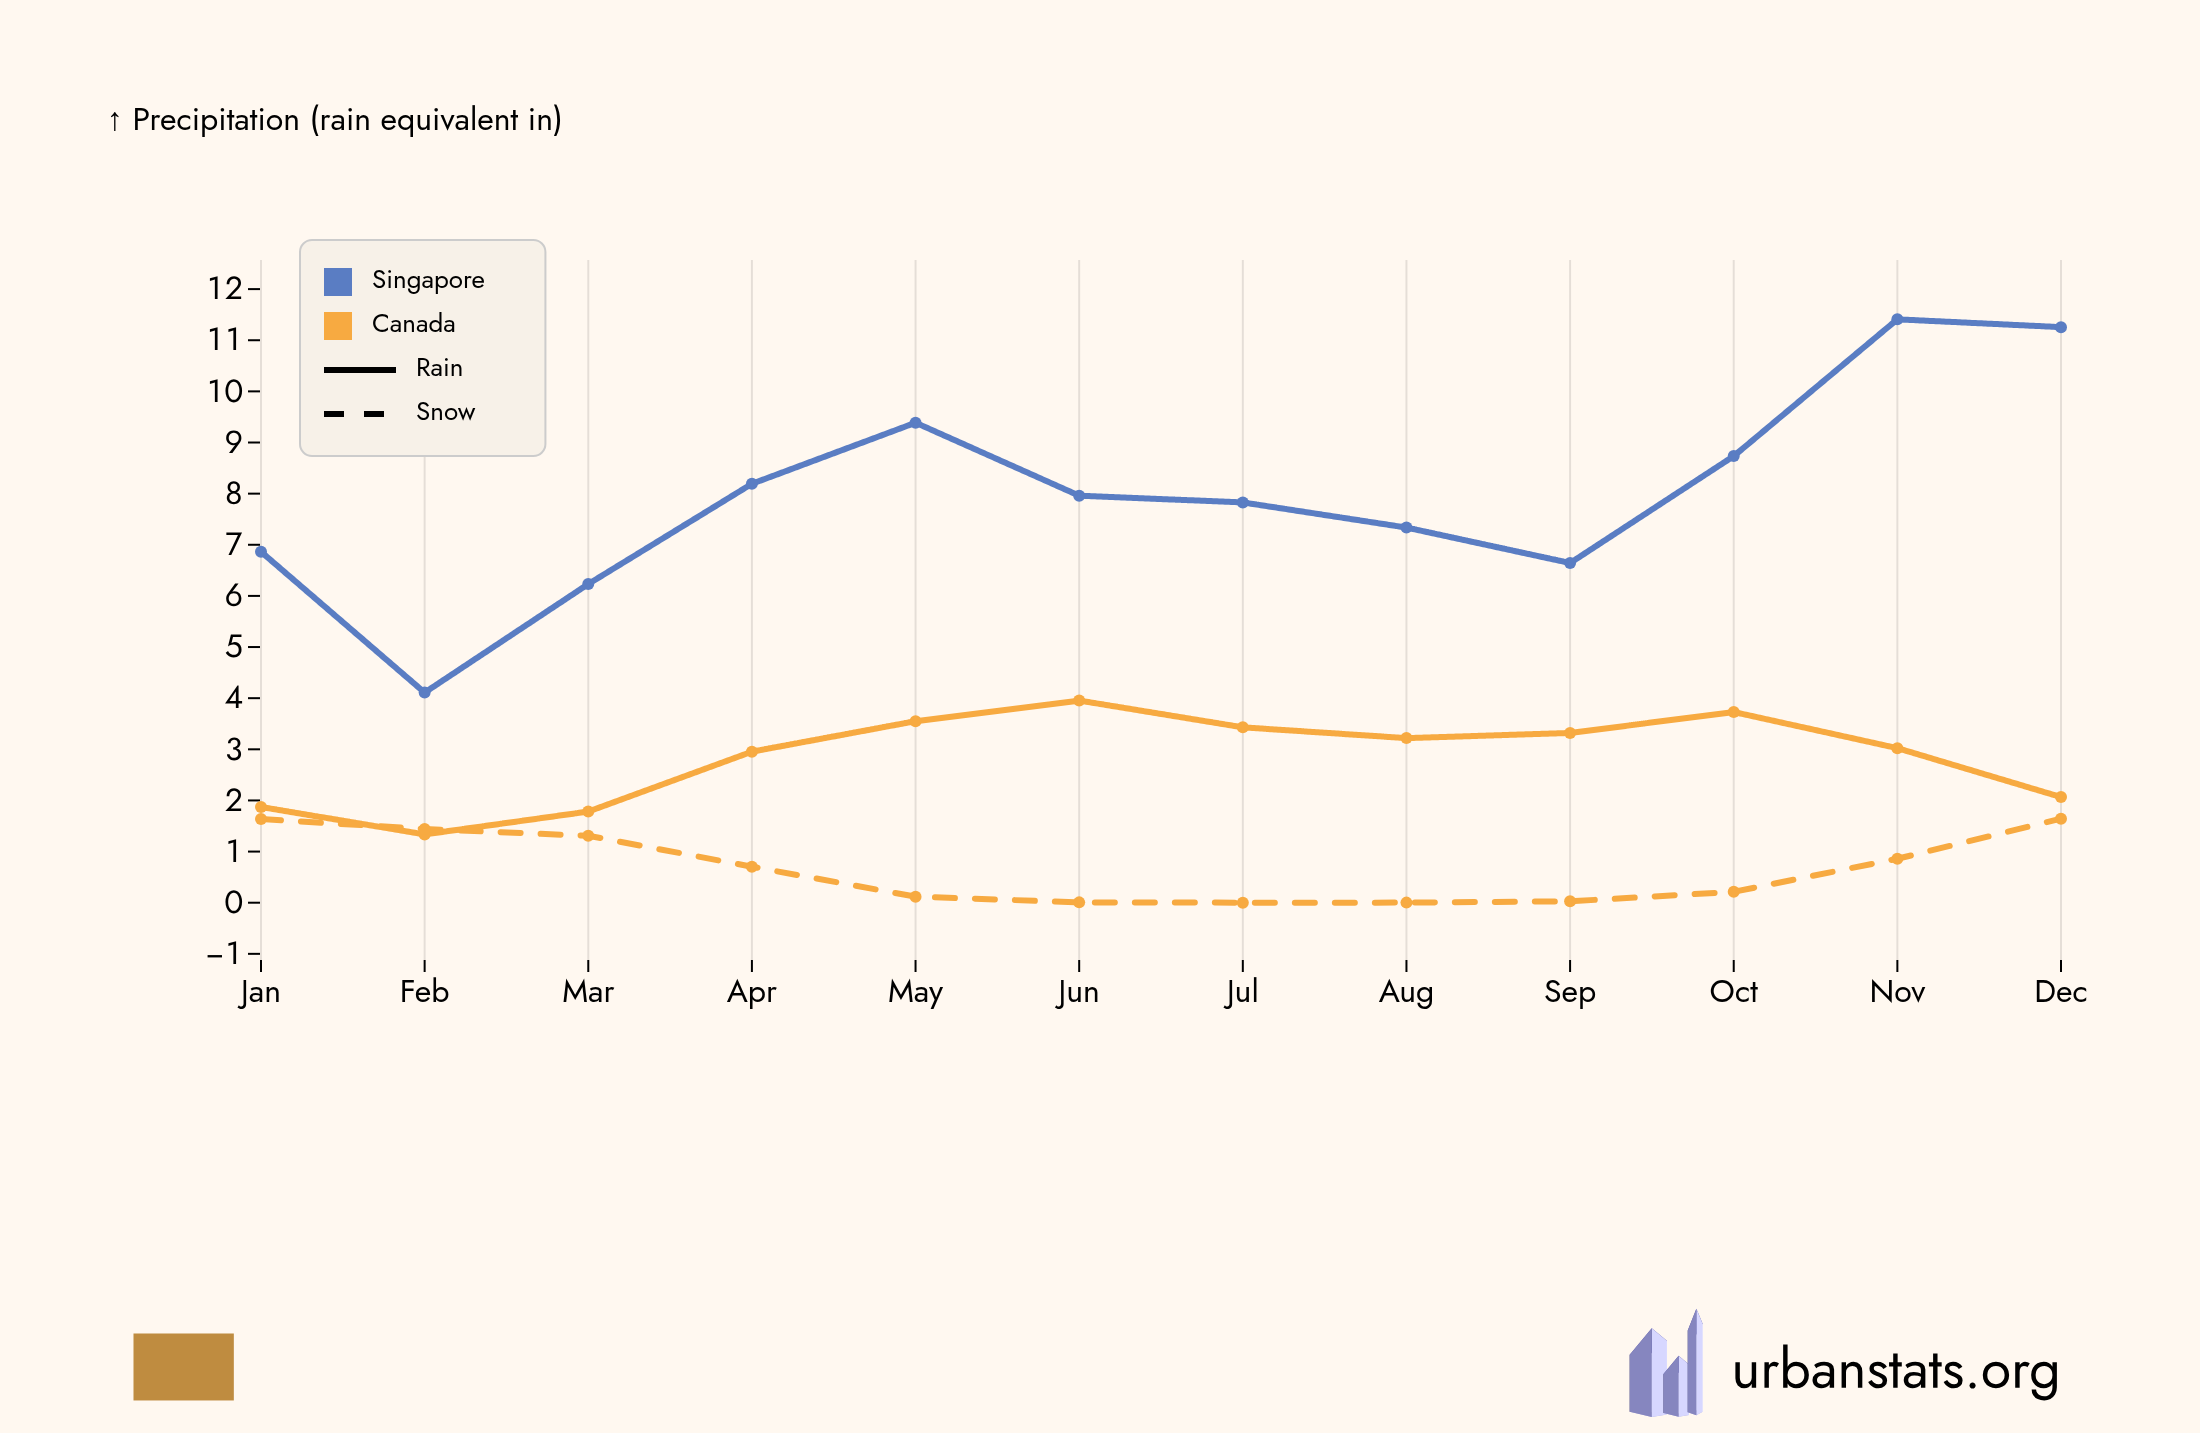
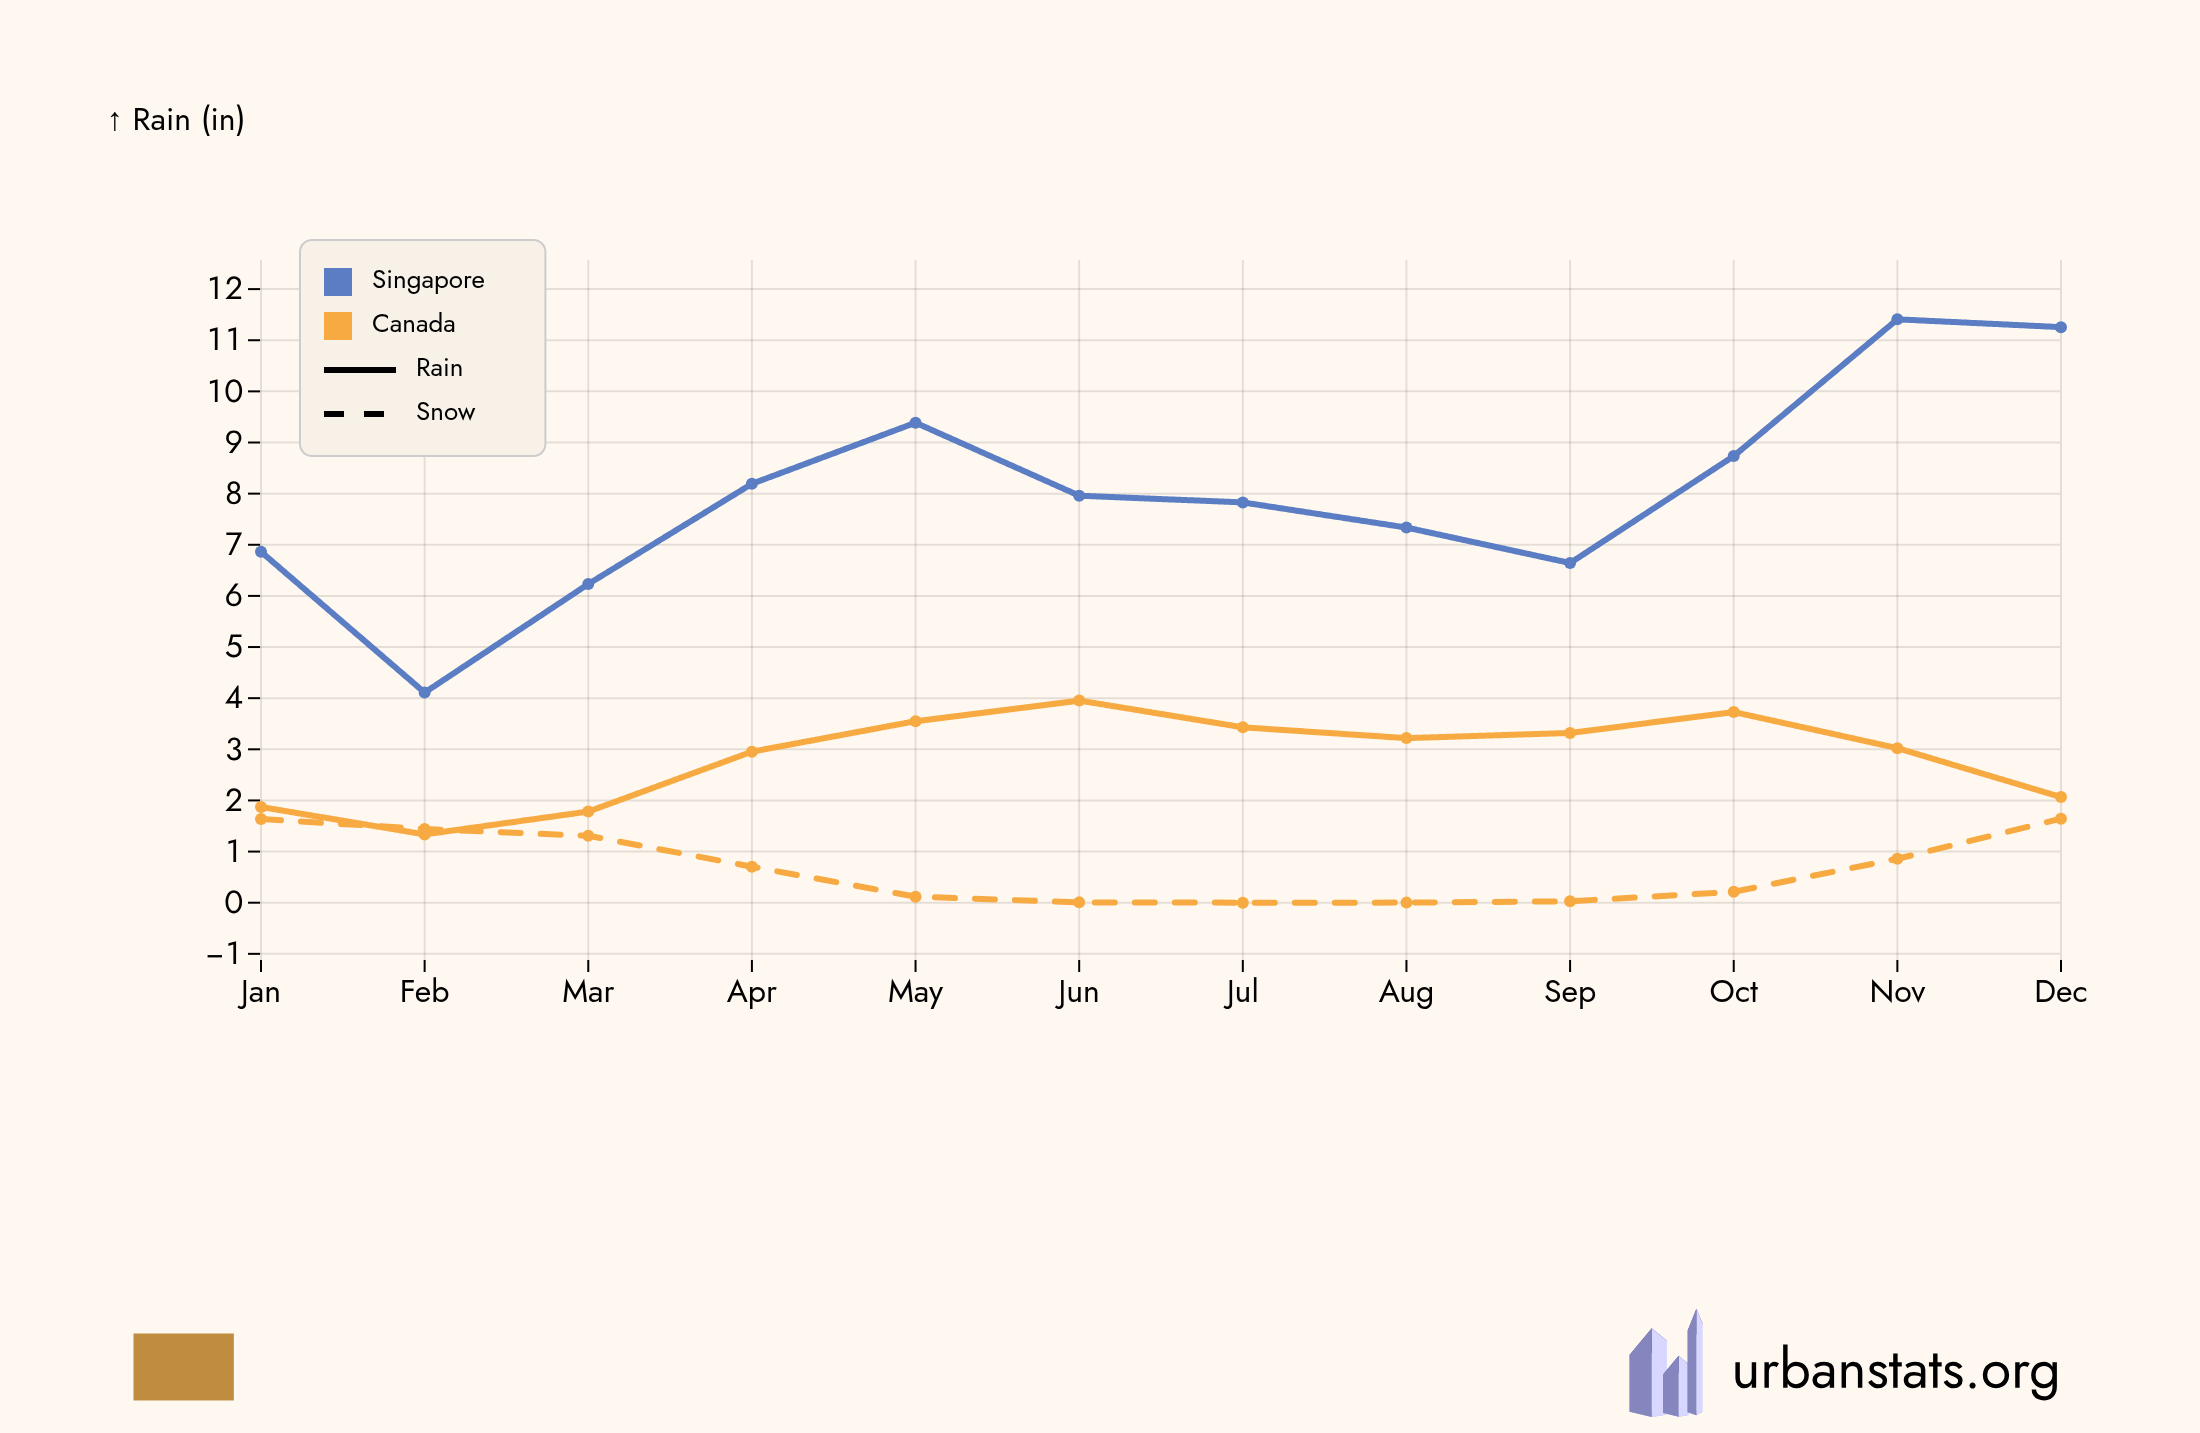
fix tests

Changed region(s): [[0.0618, 0.0614, 0.2473, 0.0921]]

diff --git a/react/src/components/plots.tsx b/react/src/components/plots.tsx
@@ -219,8 +219,33 @@ const plotPairAxisLabel: Partial<Record<StatPath, { solo: (unitSuffix: string) =
 const noAxisLabel = (): string => ''
 
 export function pullRelevantPlotProps(rows: ArticleRow[], statIndex: number, color: string, shortname: string, longname: string, sharedTypeOfAllArticles: string | undefined): PlotProps[] {
-    if (rows[statIndex].kind !== 'statistic' || rows[statIndex].extraStats.length === 0) {
+    if (rows[statIndex].kind !== 'statistic') {
         return []
+    }
+    if (rows[statIndex].extraStats.length === 0) {
+        // this stat's own data is invalid for this region (e.g. Singapore's snowfall) -- if its
+        // pair partner has valid data (Singapore's rainfall), still show that, styled exactly as
+        // if the partner had been requested directly (matching expanding the partner's own row),
+        // rather than dropping this region from the chart entirely
+        const pairedPath = plotPairPartner[rows[statIndex].statpath]
+        const pairedIdx = pairedPath !== undefined
+            ? rows.findIndex(r => r.statpath === pairedPath && r.kind === 'statistic')
+            : -1
+        if (pairedIdx === -1 || rows[pairedIdx].extraStats.length === 0) {
+            return []
+        }
+        const axisLabel = plotPairAxisLabel[rows[pairedIdx].statpath]
+        return [{
+            ...rows[pairedIdx],
+            color,
+            shortname,
+            longname,
+            sharedTypeOfAllArticles,
+            subseriesName: plotPairLabel[rows[pairedIdx].statpath]!,
+            dashOrder: plotPairDashOrder[rows[pairedIdx].statpath],
+            combinedLabel: axisLabel !== undefined ? axisLabel.solo : noAxisLabel,
+            pairedInFor: ['monthly_time_series'],
+        } satisfies PlotProps]
     }
     const sPs = rows.map(row => statParents.get(row.statpath)!).map((sP, i) => ({ sP, i }))
     const byYear = new Map<Year, number[]>()

diff --git a/react/test/histogram.test.ts b/react/test/histogram.test.ts
@@ -128,13 +128,19 @@ test('histogram-monthly-comparison-symmetric-invalid-pair', async (t) => {
     await downloadHistogram(t, 0)
 })
 
-// Expanding from the invalid side of the pair (Singapore's own snowfall data is
-// invalid) should just omit that region from the chart rather than erroring.
+// Expanding from the invalid side of the pair (Singapore's own snowfall data is invalid) should
+// still show Singapore's valid Rain data -- not drop the region from the chart entirely, which
+// was a real bug: pullRelevantPlotProps used to bail out as soon as the *own* stat (Snowfall) had
+// no data, without ever checking whether the pair partner (Rainfall) did.
 urbanstatsFixture('comparison test monthly plot expanding the invalid side of the pair', comparisonPage(['Singapore', 'Canada']))
 
 test('histogram-monthly-comparison-expand-invalid-own-stat', async (t) => {
     await checkTextboxes(t, ['Weather'])
     await t.click(Selector('[aria-label="Expand Snowfall [rain-equivalent]"]'))
+    await t.expect(Selector('.histogram-svg-panel').find('text').withText(/^Singapore$/).exists).ok('Singapore should still appear, via its valid Rain data')
+    await t.expect(Selector('.histogram-svg-panel').find('text').withText(/^Canada$/).exists).ok('Canada should still appear, with both Rain and Snow')
+    await t.expect(Selector('.histogram-svg-panel').find('text').withText(/^Rain$/).exists).ok('Rain legend entry')
+    await t.expect(Selector('.histogram-svg-panel').find('text').withText(/^Snow$/).exists).ok('Snow legend entry')
     await downloadHistogram(t, 0)
 })
 